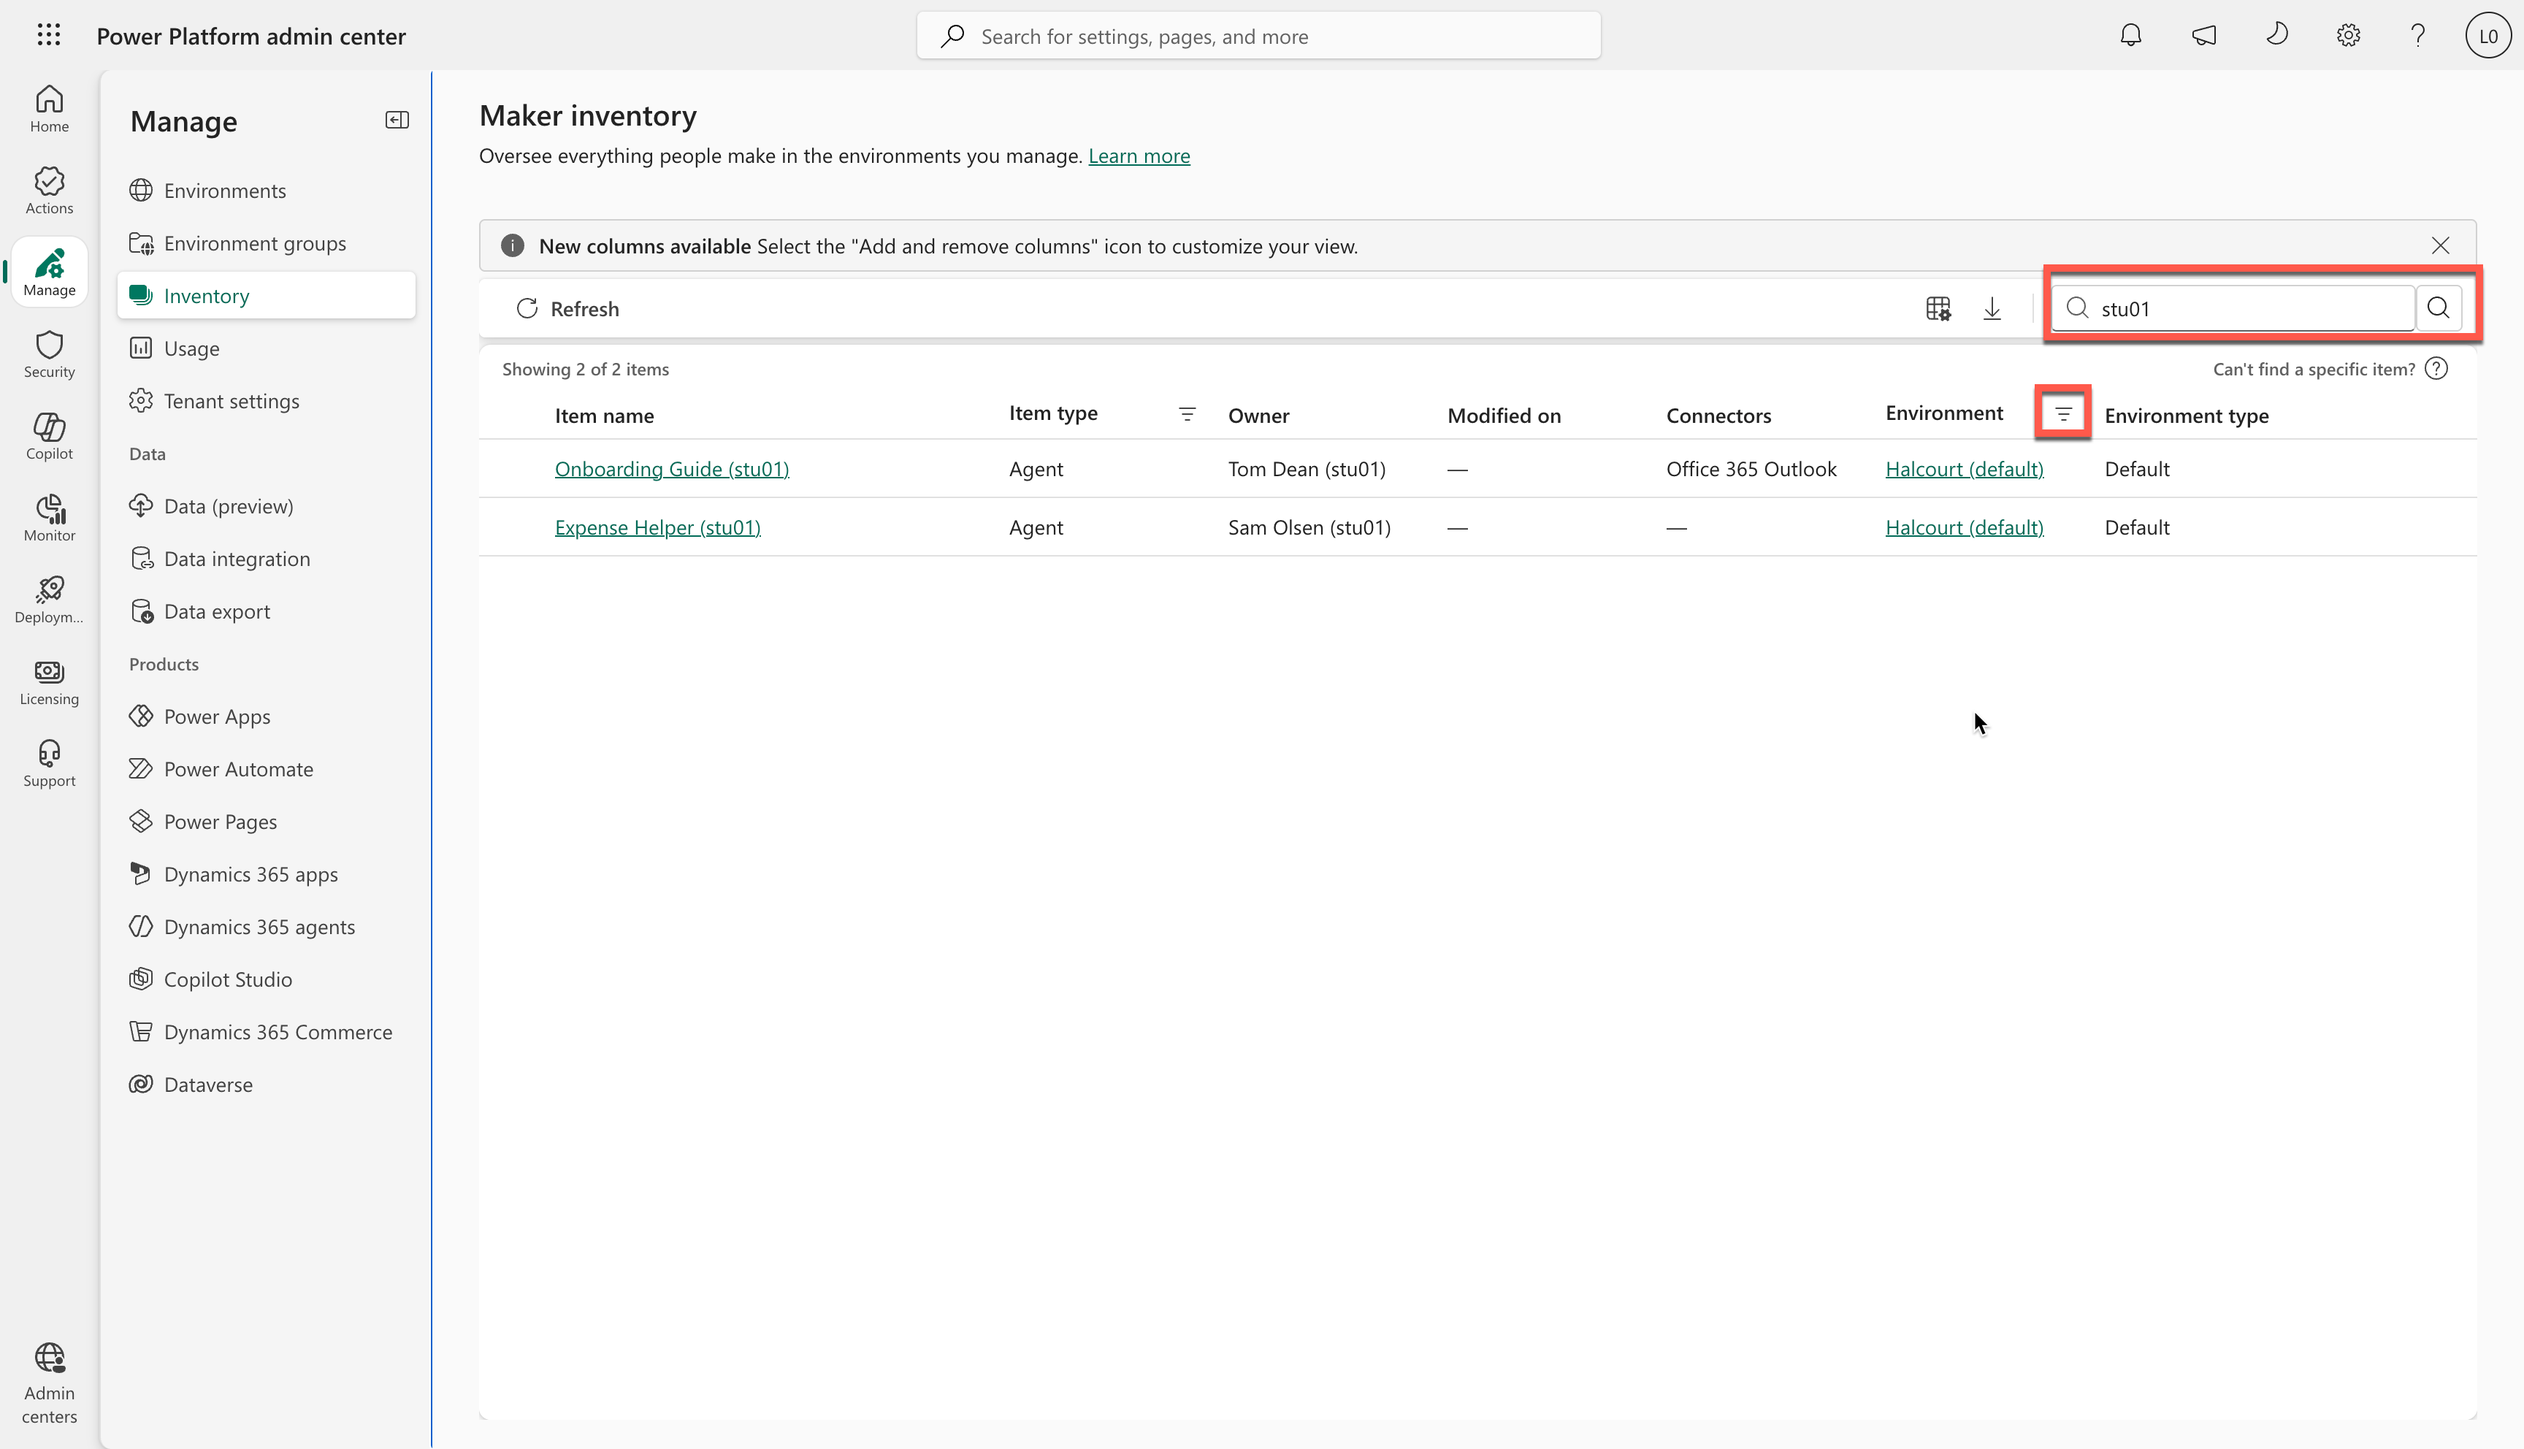
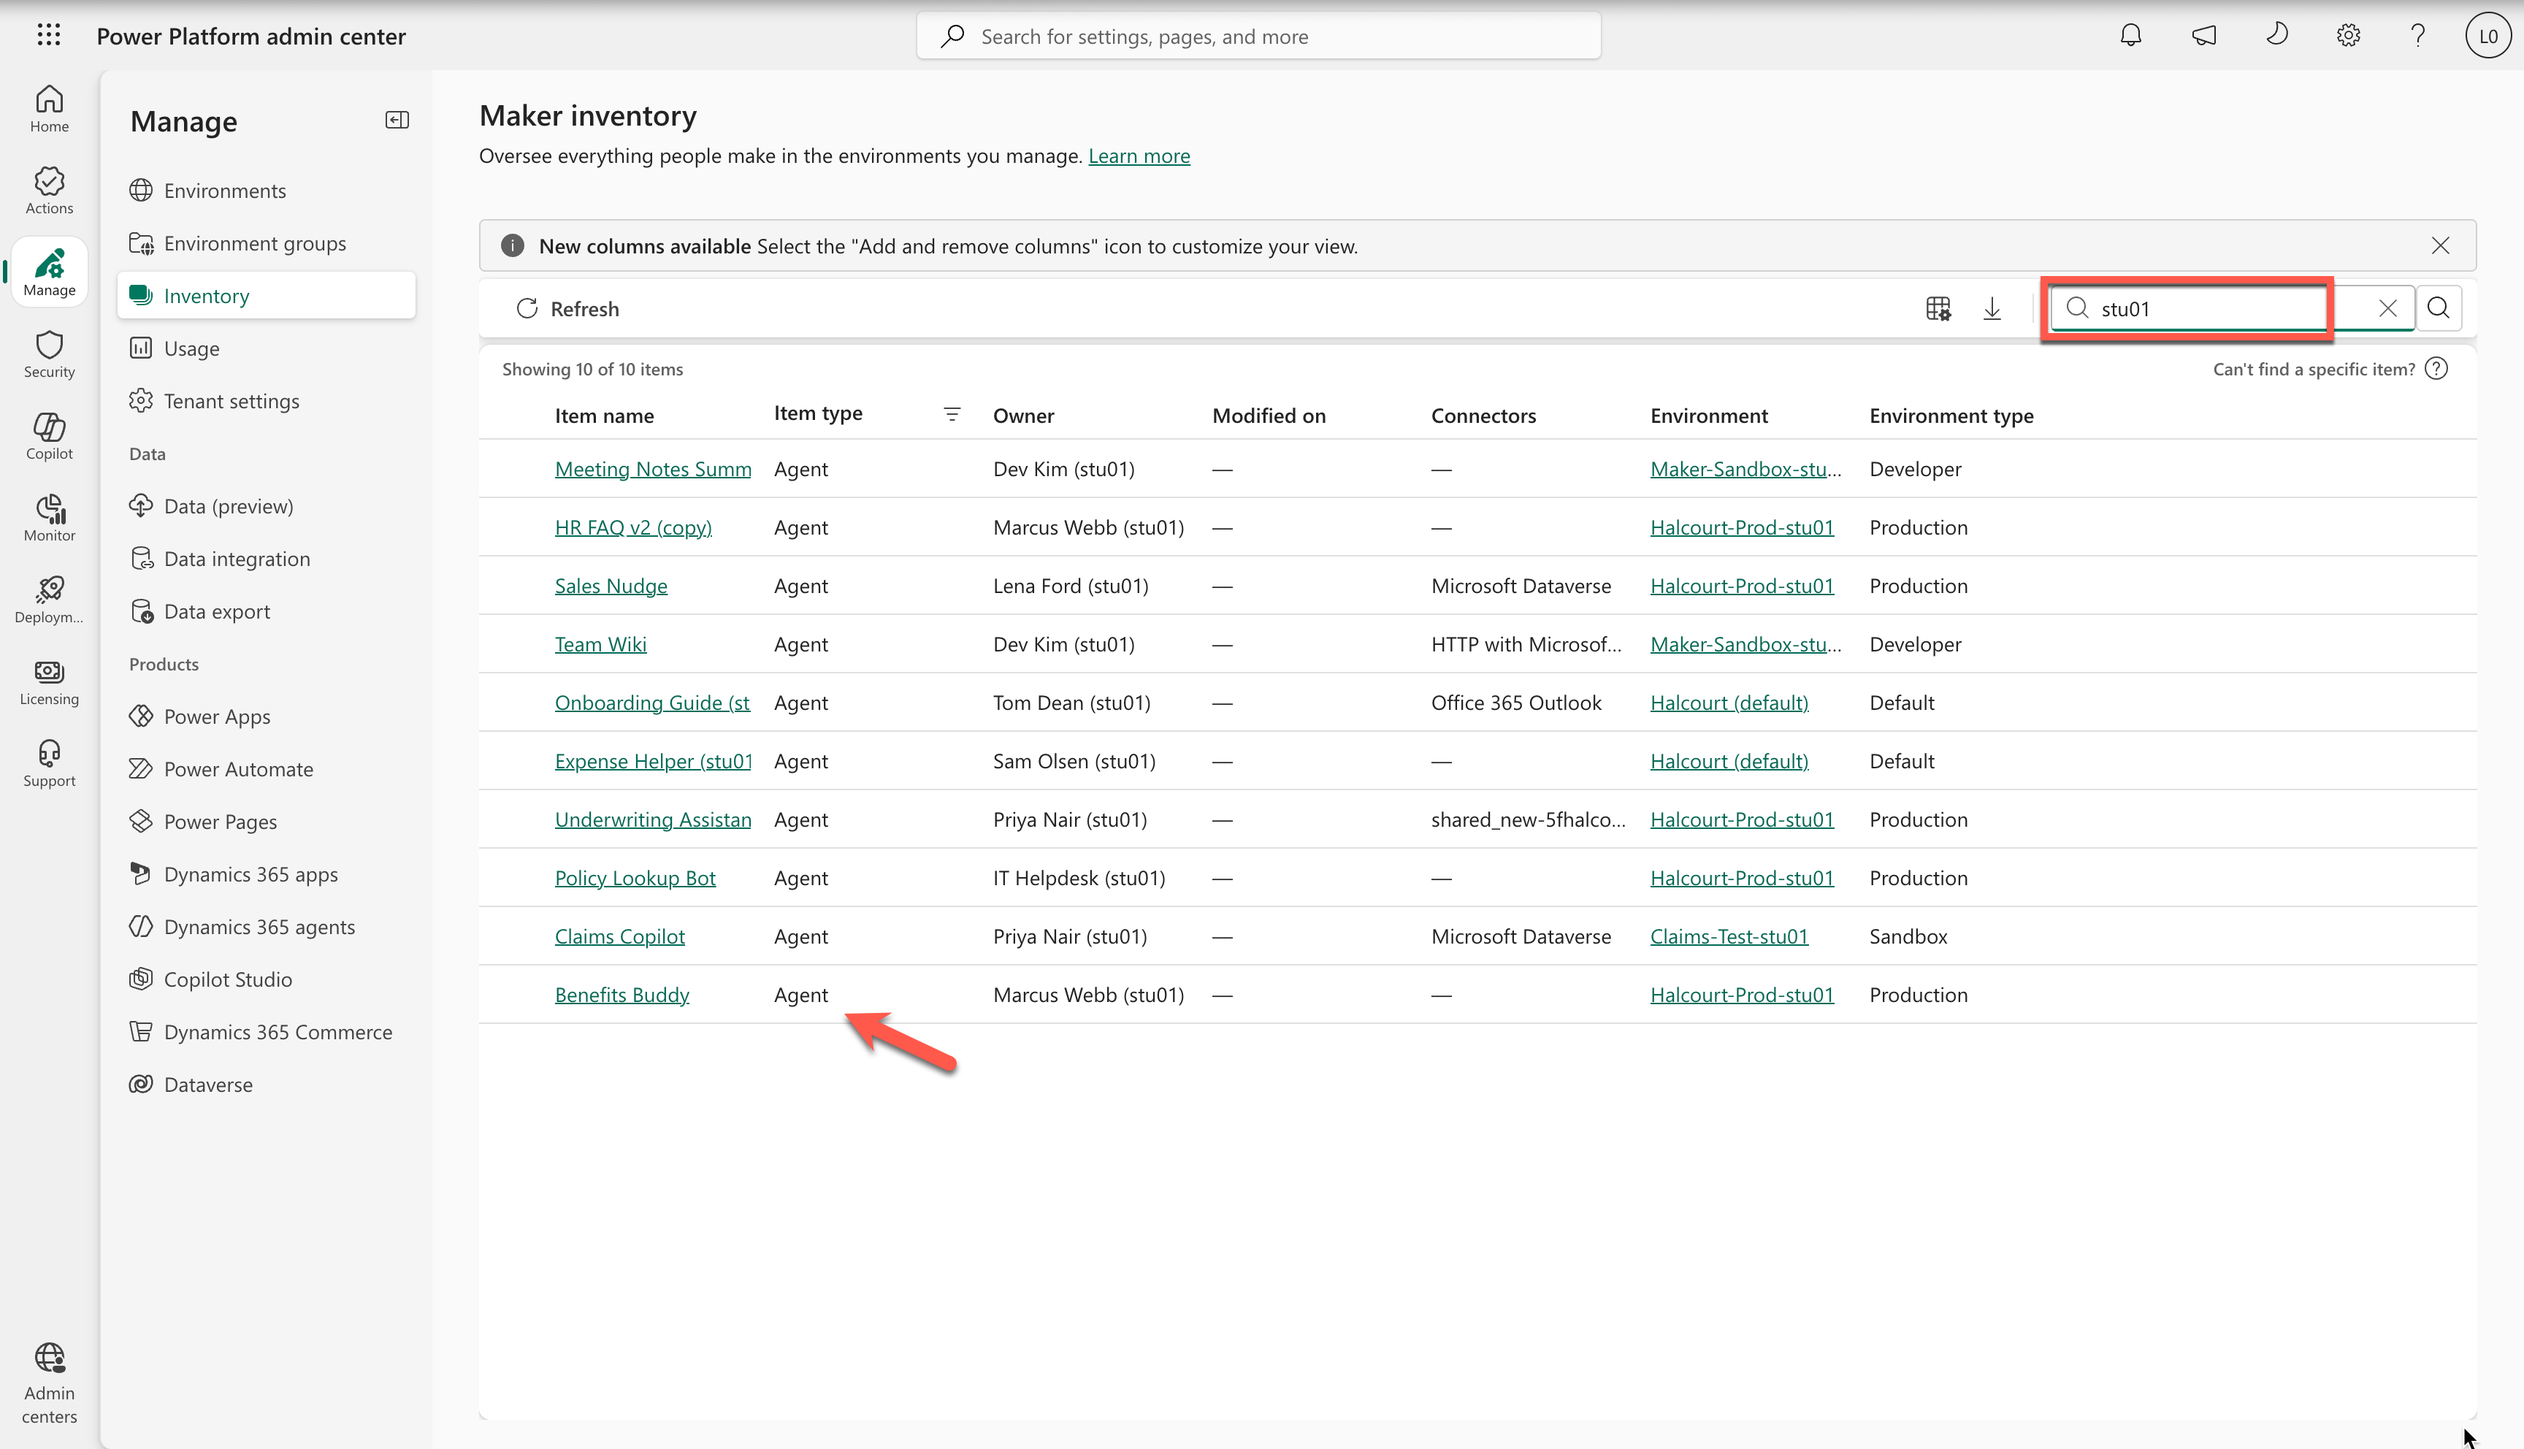
fixed some screenshots

diff --git a/docs/01_the_agent_estate/01_01.md b/docs/01_the_agent_estate/01_01.md
@@ -70,7 +70,7 @@ Get a first count from the admin center, then stress-test whether that count is 
 
    ![The inventory searched for an estate id, with the Environment filter](../../media/ex01_t01_kt01_s01b.png)
 
-2. Choose **Download** to export the list as CSV, and copy your agents into your blank
+2. Choose **Download** to export the list as CSV, open the file and copy the list of agents into your blank
    [`agents-export.csv`]({% link worksheets/artifact-pack/blank/agents-export.csv %}), one row per agent.
    The number of rows is your starting count of agents.
    - **Item name** → `display_name`
@@ -100,6 +100,10 @@ Get a first count from the admin center, then stress-test whether that count is 
    - `published`: select the agent in the portal list; on its **Details** tab, `Yes` if it shows a
      published date, otherwise `No`.
 
+   The result should be similar to this:
+
+   ![ex01_t01_kt01_s04](../../media/ex01_t01_kt01_s04.png)
+
    If you aren't in the tenant: review and count the rows in the filled-in
    [`agents-export.csv`]({% link worksheets/artifact-pack/agents-export.csv %}).
 4. **OBSERVATIONS:** Look at the `environment` column. Note how many *distinct* environments the agents live in, then
@@ -119,7 +123,6 @@ Get a first count from the admin center, then stress-test whether that count is 
 
 </details>
 
-![agents-export.csv open in a spreadsheet, one row per agent](../../media/ex01_t01_kt01_s02.png)
 
 ### 02: Who owns them?
 
